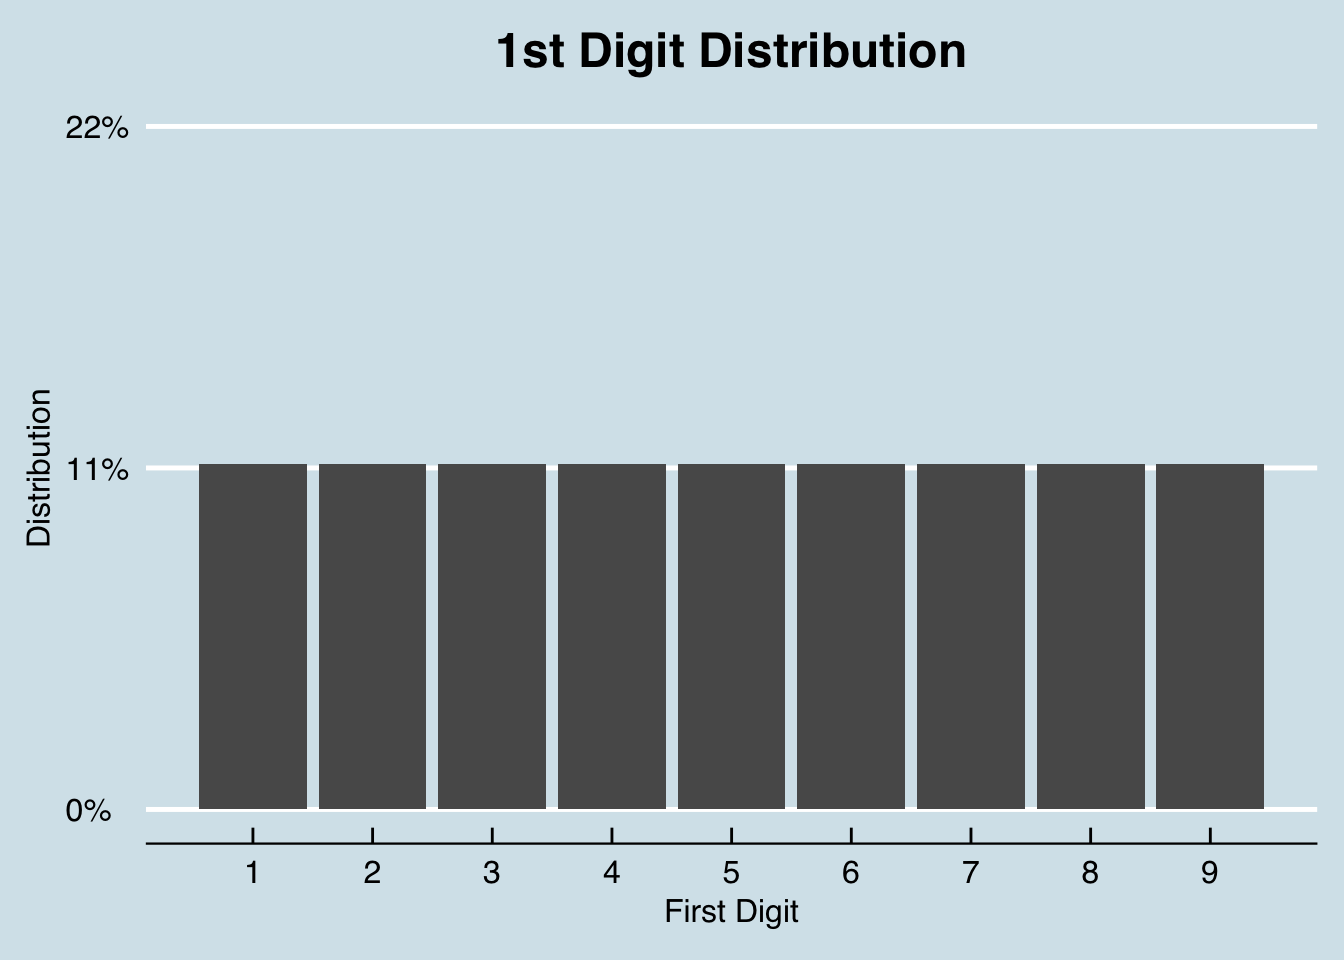
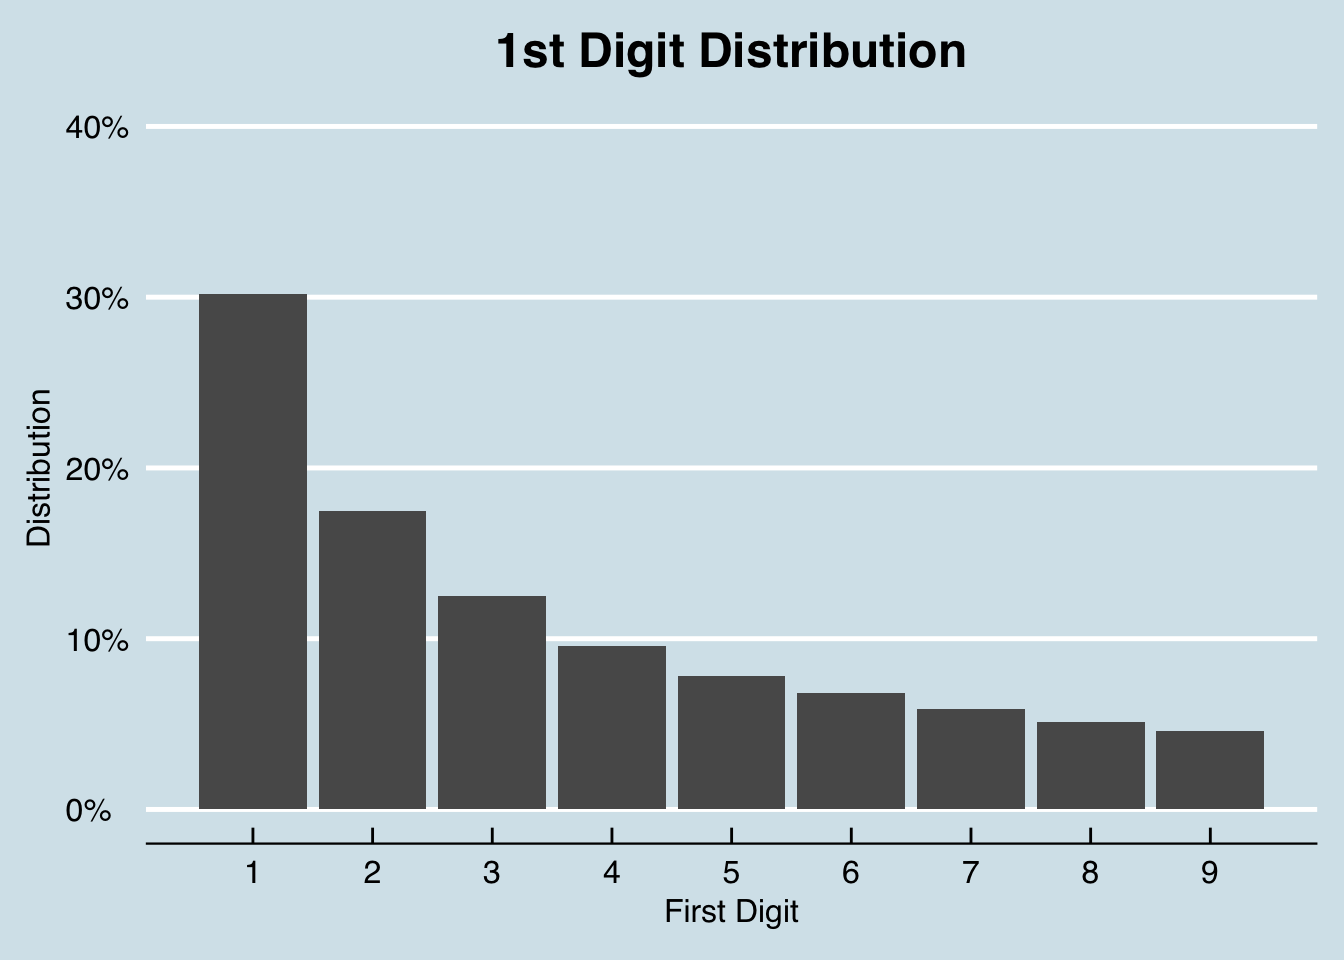
Updating Benford's post.

diff --git a/content/post/2018-08-10-benford-s-law-using-r.html b/content/post/2018-08-10-benford-s-law-using-r.html
@@ -23,11 +23,11 @@ Tags: []
 <li></li>
 </ol>
 <p>Which number did you choose? Actually, that’s irrelevant! My intention here is to make you reflect on this question: what were the odds of you correctly guessing the first digit?</p>
-<p>1/9, right? There were 9 possibilities(1,2,3,4,5,6,7,8,9), since 0 is not a first digit among the possibilities I’ve described. So, if you chose 4, in 11 of 99 possible outcomes you would’ve pick correctly (4,40,41,42,43,44,45,46,47,48,49). So far, simple math. This is illustrated by the figure below.</p>
+<p>1/9, right? There were 9 possibilities(1,2,3,4,5,6,7,8,9), since 0 is not a first digit among the possibilities I’ve described. So, if you chose 4, in 11 of 99 possible outcomes you would’ve pick correctly (4,40,41,42,43,44,45,46,47,48,49). So far, simple math.</p>
+<p>But what if we use another set of numbers? For example: the first 1000 occurrences of the Fibonacci sequence(Any number of the Fibonacci sequence is the sum of the previous two numbers, so: 1,1,2,3,5,8,13… and so forth). Would you say that your odds of guessing correctly would remain 1/9 were you to choose 4 again? Let me show you the distribution.</p>
 <p><img src="/post/2018-08-10-benford-s-law-using-r_files/figure-html/Beta-1.png" width="672" /></p>
-<p>But let me ask you now about a different set of numbers, say, the first 1000 occurrences of the Fibonacci sequence?(Any number of the Fibonacci sequence is the sum of the previous two numbers, so: 1,1,2,3,5,8,13… and so forth). Would you say that your odds of guessing correctly would remain 1/9 were you to choose 4 again? Let me show you the distribution.</p>
-<p>The answer is no! What we have here is a very peculiar mathematical phenomenon called Benford’s Law. Thanks to two gentlemen, Simon Newcomb and Frank Benford, there’s a good story behind that answer. In <a href="http://gerry.lamost.org/upload/newcomb.pdf"><strong>1881</strong></a>, Simon Newcomb, an astronomer, noticed that the first pages of a logarithm book were usually more worned out than the later ones. From this, he derived his intuition that given a list of arbitrary numbers more numbers will tend to begin with an “1” than any other digit. So, why is it called Benford’s Law, and not Newcomb’s law? (that’s a classic case of <a href="https://io9.gizmodo.com/5820736/stiglers-law-why-nothing-in-science-is-ever-named-after-its-actual-discoverer"><strong>Stigler’s Law</strong></a>[and no, this law is named after this <a href="https://galton.uchicago.edu/faculty/stigler.shtml"><strong>Stigler</strong></a>, not his <a href="https://research.chicagobooth.edu/stigler/about/george-stigler"><strong>father</strong></a>, the economist and Nobel Laureate]).</p>
-<p>Well, it wasn’t until <a href="https://www.jstor.org/stable/984802?seq=1#page_scan_tab_contents"><strong>1938</strong></a> that physicist Frank Benford formalized this discovery, which he regarded as the Law of Anomalous Numbers. He tested the distribution of the first digit of 20 different samples, and concluded that in populations of exponential growth, the distribution of the first digit followed a certain pattern. What is this pattern? If <strong>d</strong> is the first digit, with d(d E{1,2,…,9}), then:</p>
+<p>The answer is no! And the reason is because what we have here is a very peculiar mathematical phenomenon called Benford’s Law. Thanks to two gentlemen, Simon Newcomb and Frank Benford, there’s a good story behind that answer. In <a href="http://gerry.lamost.org/upload/newcomb.pdf"><strong>1881</strong></a>, Simon Newcomb, an astronomer, noticed that the first pages of a logarithm book were usually more worned out than the later ones. From this, he derived his intuition that given a list of arbitrary numbers more numbers will tend to begin with an “1” than any other digit. So, why is it called Benford’s Law, and not Newcomb’s law? (that’s a classic case of <a href="https://io9.gizmodo.com/5820736/stiglers-law-why-nothing-in-science-is-ever-named-after-its-actual-discoverer"><strong>Stigler’s Law</strong></a>[this law is named after this <a href="https://galton.uchicago.edu/faculty/stigler.shtml"><strong>Stigler</strong></a>, not his <a href="https://research.chicagobooth.edu/stigler/about/george-stigler"><strong>father</strong></a>, the economist and Nobel Laureate]).</p>
+<p>Well, it wasn’t until <a href="https://www.jstor.org/stable/984802?seq=1#page_scan_tab_contents"><strong>1938</strong></a> that physicist(remember when I talked about Econophysics?) Frank Benford formalized this discovery, which he regarded as the Law of Anomalous Numbers. He tested the distribution of the first digit of 20 different samples, and concluded that in populations of exponential growth, the distribution of the first digit followed a certain pattern. What is this pattern? If <strong>d</strong> is the first digit, with d(d E{1,2,…,9}), then:</p>
 <p><span class="math display">\[P(d) = \log_{10}(d+1) - \log_{10}(d) = \log_{10}(\frac{d+1}{d}) = \log_{10}(\frac{d+1}{d})\]</span></p>
 <p>Substituting d for the nine digits, we have the following results:</p>
 <table>

diff --git a/public/post/benford-s-law-using-r/index.html b/public/post/benford-s-law-using-r/index.html
@@ -107,11 +107,11 @@
 <li></li>
 </ol>
 <p>Which number did you choose? Actually, that’s irrelevant! My intention here is to make you reflect on this question: what were the odds of you correctly guessing the first digit?</p>
-<p>1/9, right? There were 9 possibilities(1,2,3,4,5,6,7,8,9), since 0 is not a first digit among the possibilities I’ve described. So, if you chose 4, in 11 of 99 possible outcomes you would’ve pick correctly (4,40,41,42,43,44,45,46,47,48,49). So far, simple math. This is illustrated by the figure below.</p>
+<p>1/9, right? There were 9 possibilities(1,2,3,4,5,6,7,8,9), since 0 is not a first digit among the possibilities I’ve described. So, if you chose 4, in 11 of 99 possible outcomes you would’ve pick correctly (4,40,41,42,43,44,45,46,47,48,49). So far, simple math.</p>
+<p>But what if we use another set of numbers? For example: the first 1000 occurrences of the Fibonacci sequence(Any number of the Fibonacci sequence is the sum of the previous two numbers, so: 1,1,2,3,5,8,13… and so forth). Would you say that your odds of guessing correctly would remain 1/9 were you to choose 4 again? Let me show you the distribution.</p>
 <p><img src="/post/2018-08-10-benford-s-law-using-r_files/figure-html/Beta-1.png" width="672" /></p>
-<p>But let me ask you now about a different set of numbers, say, the first 1000 occurrences of the Fibonacci sequence?(Any number of the Fibonacci sequence is the sum of the previous two numbers, so: 1,1,2,3,5,8,13… and so forth). Would you say that your odds of guessing correctly would remain 1/9 were you to choose 4 again? Let me show you the distribution.</p>
-<p>The answer is no! What we have here is a very peculiar mathematical phenomenon called Benford’s Law. Thanks to two gentlemen, Simon Newcomb and Frank Benford, there’s a good story behind that answer. In <a href="http://gerry.lamost.org/upload/newcomb.pdf"><strong>1881</strong></a>, Simon Newcomb, an astronomer, noticed that the first pages of a logarithm book were usually more worned out than the later ones. From this, he derived his intuition that given a list of arbitrary numbers more numbers will tend to begin with an “1” than any other digit. So, why is it called Benford’s Law, and not Newcomb’s law? (that’s a classic case of <a href="https://io9.gizmodo.com/5820736/stiglers-law-why-nothing-in-science-is-ever-named-after-its-actual-discoverer"><strong>Stigler’s Law</strong></a>[and no, this law is named after this <a href="https://galton.uchicago.edu/faculty/stigler.shtml"><strong>Stigler</strong></a>, not his <a href="https://research.chicagobooth.edu/stigler/about/george-stigler"><strong>father</strong></a>, the economist and Nobel Laureate]).</p>
-<p>Well, it wasn’t until <a href="https://www.jstor.org/stable/984802?seq=1#page_scan_tab_contents"><strong>1938</strong></a> that physicist Frank Benford formalized this discovery, which he regarded as the Law of Anomalous Numbers. He tested the distribution of the first digit of 20 different samples, and concluded that in populations of exponential growth, the distribution of the first digit followed a certain pattern. What is this pattern? If <strong>d</strong> is the first digit, with d(d E{1,2,…,9}), then:</p>
+<p>The answer is no! And the reason is because what we have here is a very peculiar mathematical phenomenon called Benford’s Law. Thanks to two gentlemen, Simon Newcomb and Frank Benford, there’s a good story behind that answer. In <a href="http://gerry.lamost.org/upload/newcomb.pdf"><strong>1881</strong></a>, Simon Newcomb, an astronomer, noticed that the first pages of a logarithm book were usually more worned out than the later ones. From this, he derived his intuition that given a list of arbitrary numbers more numbers will tend to begin with an “1” than any other digit. So, why is it called Benford’s Law, and not Newcomb’s law? (that’s a classic case of <a href="https://io9.gizmodo.com/5820736/stiglers-law-why-nothing-in-science-is-ever-named-after-its-actual-discoverer"><strong>Stigler’s Law</strong></a>[this law is named after this <a href="https://galton.uchicago.edu/faculty/stigler.shtml"><strong>Stigler</strong></a>, not his <a href="https://research.chicagobooth.edu/stigler/about/george-stigler"><strong>father</strong></a>, the economist and Nobel Laureate]).</p>
+<p>Well, it wasn’t until <a href="https://www.jstor.org/stable/984802?seq=1#page_scan_tab_contents"><strong>1938</strong></a> that physicist(remember when I talked about Econophysics?) Frank Benford formalized this discovery, which he regarded as the Law of Anomalous Numbers. He tested the distribution of the first digit of 20 different samples, and concluded that in populations of exponential growth, the distribution of the first digit followed a certain pattern. What is this pattern? If <strong>d</strong> is the first digit, with d(d E{1,2,…,9}), then:</p>
 <p><span class="math display">\[P(d) = \log_{10}(d+1) - \log_{10}(d) = \log_{10}(\frac{d+1}{d}) = \log_{10}(\frac{d+1}{d})\]</span></p>
 <p>Substituting d for the nine digits, we have the following results:</p>
 <table>

diff --git a/public/post/about/index.html b/public/post/about/index.html
@@ -100,7 +100,7 @@
     </div>
   </header>
   <section>
-    <p>My name is Gabriel Voelcker and I am, among other things, an economist. I hope to use this netlify as a place to share my research ideas, improve my coding skills and, last but not least, connect with other people who share interests with me. I will try to write everything in a way that you are capable of understanding. So, regardless if the person reading what I write doesn’t have a clue what tidyverse or Cobb-Douglas is, or is a Nobel winner(not unprecedented to be honest, but let’s save this story for another time) he or she should be able to understand what I’m trying to convey.</p>
+    <p>My name is Gabriel Voelcker and I am, among other things, an economist. I hope to use this netlify as a place to share my research ideas, improve my coding skills and, last but not least, connect with other people who share interests with me. Since I love telling stories, I will try to write everything in a way that you are capable of understanding. So, regardless if the person reading what I will write doesn’t have a clue what tidyverse or Cobb-Douglas is, or is a Nobel laureate(not unprecedented to be honest, but let’s save this story for another time) he or she should be able to understand what I’m trying to convey.</p>
 <p>This website is 100% written in RStudio. I’ve started using R recently, having used only Stata and Gretl in my undergraduate econometrics. You are welcome to see the code behind this website <a href="https://github.com/gvoelcker/Site-Gabriel"><strong>here</strong></a>. I’ve chosen this language of coding not only because it’s suits me best, but also because of its broad applicability.</p>
 <p>Feel free to contact me in your language. Falo português, anche parlo italiano und ich spreche Deutsch(aber mein Deutsch ist ein bisschen kaputt).</p>
 

diff --git a/content/post/2018-08-03-about.html b/content/post/2018-08-03-about.html
@@ -11,6 +11,6 @@ Tags: []
 
 
 
-<p>My name is Gabriel Voelcker and I am, among other things, an economist. I hope to use this netlify as a place to share my research ideas, improve my coding skills and, last but not least, connect with other people who share interests with me. I will try to write everything in a way that you are capable of understanding. So, regardless if the person reading what I write doesn’t have a clue what tidyverse or Cobb-Douglas is, or is a Nobel winner(not unprecedented to be honest, but let’s save this story for another time) he or she should be able to understand what I’m trying to convey.</p>
+<p>My name is Gabriel Voelcker and I am, among other things, an economist. I hope to use this netlify as a place to share my research ideas, improve my coding skills and, last but not least, connect with other people who share interests with me. Since I love telling stories, I will try to write everything in a way that you are capable of understanding. So, regardless if the person reading what I will write doesn’t have a clue what tidyverse or Cobb-Douglas is, or is a Nobel laureate(not unprecedented to be honest, but let’s save this story for another time) he or she should be able to understand what I’m trying to convey.</p>
 <p>This website is 100% written in RStudio. I’ve started using R recently, having used only Stata and Gretl in my undergraduate econometrics. You are welcome to see the code behind this website <a href="https://github.com/gvoelcker/Site-Gabriel"><strong>here</strong></a>. I’ve chosen this language of coding not only because it’s suits me best, but also because of its broad applicability.</p>
 <p>Feel free to contact me in your language. Falo português, anche parlo italiano und ich spreche Deutsch(aber mein Deutsch ist ein bisschen kaputt).</p>

diff --git a/public/index.html b/public/index.html
@@ -121,7 +121,7 @@ I am thinking of a number from 1 to 99.
     </div>
   </header>
   <div>
-    My name is Gabriel Voelcker and I am, among other things, an economist. I hope to use this netlify as a place to share my research ideas, improve my coding skills and, last but not least, connect with other people who share interests with me. I will try to write everything in a way that you are capable of understanding. So, regardless if the person reading what I write doesn’t have a clue what tidyverse or Cobb-Douglas is, or is a Nobel winner(not unprecedented to be honest, but let’s save this story for another time) he or she should be able to understand what I’m trying to convey.
+    My name is Gabriel Voelcker and I am, among other things, an economist. I hope to use this netlify as a place to share my research ideas, improve my coding skills and, last but not least, connect with other people who share interests with me. Since I love telling stories, I will try to write everything in a way that you are capable of understanding. So, regardless if the person reading what I will write doesn’t have a clue what tidyverse or Cobb-Douglas is, or is a Nobel laureate(not unprecedented to be honest, but let’s save this story for another time) he or she should be able to understand what I’m trying to convey.
   </div>
   
   <footer>

diff --git a/public/post/index.html b/public/post/index.html
@@ -123,7 +123,7 @@ I am thinking of a number from 1 to 99.
     </div>
   </header>
   <div>
-    My name is Gabriel Voelcker and I am, among other things, an economist. I hope to use this netlify as a place to share my research ideas, improve my coding skills and, last but not least, connect with other people who share interests with me. I will try to write everything in a way that you are capable of understanding. So, regardless if the person reading what I write doesn’t have a clue what tidyverse or Cobb-Douglas is, or is a Nobel winner(not unprecedented to be honest, but let’s save this story for another time) he or she should be able to understand what I’m trying to convey.
+    My name is Gabriel Voelcker and I am, among other things, an economist. I hope to use this netlify as a place to share my research ideas, improve my coding skills and, last but not least, connect with other people who share interests with me. Since I love telling stories, I will try to write everything in a way that you are capable of understanding. So, regardless if the person reading what I will write doesn’t have a clue what tidyverse or Cobb-Douglas is, or is a Nobel laureate(not unprecedented to be honest, but let’s save this story for another time) he or she should be able to understand what I’m trying to convey.
   </div>
   
   <footer>
